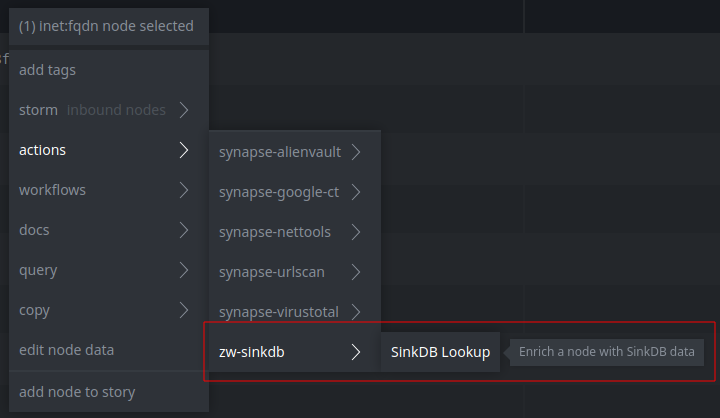
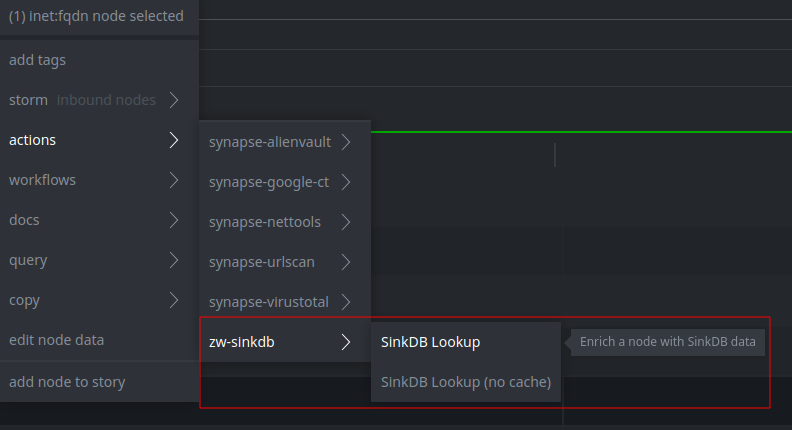
update optic docs

diff --git a/README.md b/README.md
@@ -63,7 +63,7 @@ For more details, please run `help zw.sinkdb`.
 
 ### Optic
 
-If you are an Optic user, there is a right-click action registered for `inet:fqdn`, `inet:email`, and `inet:ipv4` nodes:
+If you are an Optic user, there are right-click actions registered for `inet:fqdn`, `inet:email`, and `inet:ipv4` nodes:
 
 ![optic screenshot of sinkdb enrichment](./optic.png)
 
